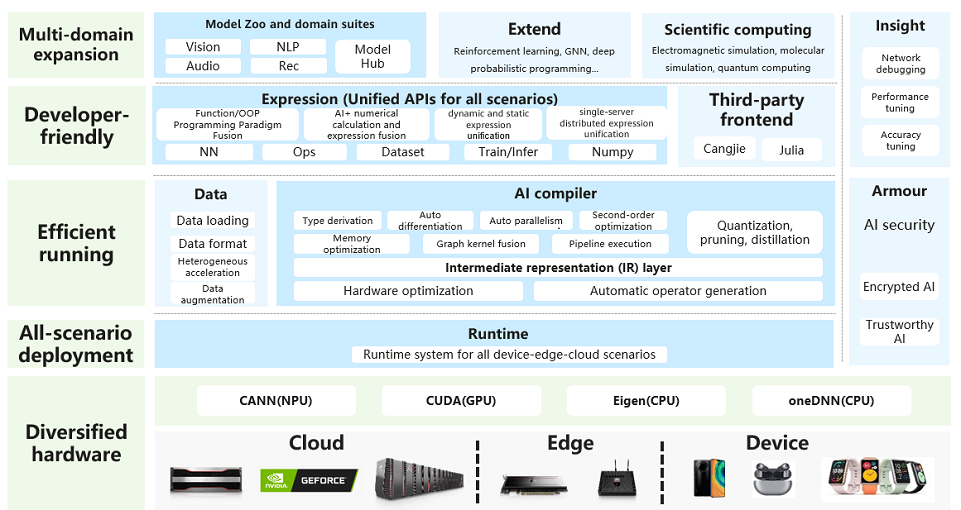
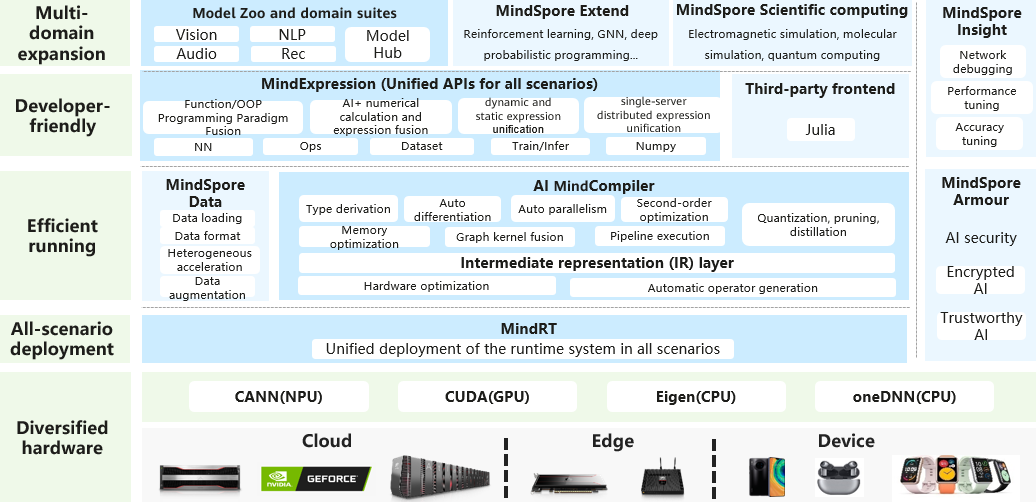
modify the tutorials file structure

diff --git a/tutorials/source_en/beginner/introduction.md b/tutorials/source_en/beginner/introduction.md
@@ -8,24 +8,24 @@ The following describes the Huawei AI full-stack solution and the position of Mi
 
 ## Introduction to MindSpore
 
-MindSpore is a deep learning framework in all scenarios, aiming to achieve easy development, efficient execution, and all-scenario coverage.
+MindSpore is a deep learning framework in all scenarios, aiming to achieve easy development, efficient execution, and unified deployment for all scenarios.
 
-Easy development features user-friendly APIs and low debugging difficulty. Efficient execution is reflected in computing, data preprocessing, and distributed training. All-scenario coverage means that the framework supports cloud, edge, and device scenarios.
+Easy development features user-friendly APIs and low debugging difficulty. Efficient execution is reflected in computing, data preprocessing, and distributed training. Unified deployment for all scenarios means that the framework supports cloud, edge, and device scenarios.
 
 The following figure shows the overall MindSpore architecture:
 
 ![MindSpore-arch](https://mindspore-website.obs.cn-north-4.myhuaweicloud.com/website-images/r2.2/tutorials/source_en/beginner/images/introduction2.png)
 
 - **ModelZoo**: provides available deep learning algorithm networks, and more developers are welcome to contribute new networks. ([ModelZoo](https://gitee.com/mindspore/models))
-- **Extend**: The MindSpore expansion package supports new domain scenarios, such as GNN, deep probabilistic programming, and reinforcement learning. More developers are expected to contribute and build the library.
-- **Science**: MindScience is a scientific computing kit for various industries based on the converged MindSpore framework. It contains the industry-leading datasets, basic network structures, high-precision pre-trained models, and pre-and post-processing tools that accelerate application development of the scientific computing.
-- **Expression**: Python-based front-end expression and programming interface that supports two fusions (function/OOP programming paradigm fusion and AI+ numerical computation expression fusion) and two unifications (dynamic expression unification and single-computer distributed expression unification).
-- **Third-party front-end**: support for third-party multilingual front-end expression, the future plans to successively provide C/C++, Huawei self-developed programming language front-end - Cangjie (currently still in the pre-research stage) and other third-party front-end docking work, and the introduction of more third-party ecology.
-- **Data**: provides functions such as efficient data processing, common dataset loading and programming interfaces, and allows users to flexibly define processing registration and pipeline parallel optimization.
-- **Compiler**: The core compiler of the layer, which implements three major functions based on the unified device-cloud MindIR, including hardware-independent optimization (type derivation, automatic differentiation, and expression simplification), hardware-related optimization (automatic parallelism, memory optimization, graph kernel fusion, and pipeline execution), and optimization related to deployment and inference (quantification and pruning).
-- **Runtime**: MindSpore runtime system, including the runtime system on the cloud host, runtime system on the device, and lightweight runtime system of the IoT platform.
-- **Insight**: MindSpore visualized debugging and tuning tool, allowing users to debug and tune the training network ([More Information](https://mindspore.cn/mindinsight/docs/en/r2.2/index.html)).
-- **Armour**: For enterprise-level applications, provides enhanced functions related to security and privacy protection, such as anti-robustness, model security testing, differential privacy training, privacy leakage risk assessment, and data drift detection ([More Information](https://mindspore.cn/mindarmour/docs/en/master/index.html)).
+- **MindSpore Extend**: The MindSpore expansion package supports new domain scenarios, such as GNN, deep probabilistic programming, and reinforcement learning. More developers are expected to contribute and build the library.
+- **MindSpore Science**: MindScience is a scientific computing kit for various industries based on the converged MindSpore framework. It contains the industry-leading datasets, basic network structures, high-precision pre-trained models, and pre-and post-processing tools that accelerate application development of the scientific computing.
+- **MindExpression**: Python-based front-end expression and programming interface that supports two fusions (function/OOP programming paradigm fusion and AI+ numerical computation expression fusion) and two unifications (dynamic expression unification and single-computer distributed expression unification).
+- **Third-party front-end**: support for third-party multilingual front-end expression, the future plans to successively provide C/C++ and other third-party front-end docking work, and the introduction of more third-party ecology.
+- **MindSpore Data**: provides functions such as efficient data processing, common dataset loading and programming interfaces, and allows users to flexibly define processing registration and pipeline parallel optimization.
+- **MindCompiler**: The core compiler of the layer, which implements three major functions based on the unified device-cloud MindIR, including hardware-independent optimization (type derivation, automatic differentiation, and expression simplification), hardware-related optimization (automatic parallelism, memory optimization, graph kernel fusion, and pipeline execution), and optimization related to deployment and inference (quantification and pruning).
+- **MindRT**: MindSpore runtime system, including the runtime system on the cloud host, runtime system on the device, and lightweight runtime system of the IoT platform.
+- **MindSpore Insight**: MindSpore visualized debugging and tuning tool, allowing users to debug and tune the training network ([More Information](https://mindspore.cn/mindinsight/docs/en/r2.2/index.html)).
+- **MindSpore Armour**: For enterprise-level applications, provides enhanced functions related to security and privacy protection, such as anti-robustness, model security testing, differential privacy training, privacy leakage risk assessment, and data drift detection ([More Information](https://mindspore.cn/mindarmour/docs/en/master/index.html)).
 
 ### Execution Process
 
@@ -47,7 +47,7 @@ After the neural network model is trained, you can export the model or load the 
 
 ### Design Philosophy
 
-- Supporting full-scenario collaboration
+- Supporting unified deployment for all scenarios
 
     MindSpore is derived from industry-wide best practices. It provides unified model training, inference, and export APIs for data scientists and algorithm engineers. It supports flexible deployment in different scenarios such as the device, edge, and cloud, and promotes the prosperity of domains such as deep learning and scientific computing.
 
@@ -62,11 +62,11 @@ After the neural network model is trained, you can export the model or load the 
 
     For example, set `set_context(mode=PYNATIVE_MODE)` to switch to the dynamic graph mode, or set `set_context(mode=GRAPH_MODE)` to switch to the static graph mode.
 
-- Using functional differentiable programming architecture and allowing users to focus on the mathematical native expression of model algorithms
+- Using AI and scientific computing fusion programming and allowing users to focus on the mathematical native expression of model algorithms
 
-    Neural network models are usually trained based on gradient descent algorithms, but the manual derivation process is complicated and the results are prone to errors. The Automatic Differentiation mechanism based on Source Code Transformation (SCT) of MindSpore adopts a functional differentiable programming architecture, and provides a Python programming interface at the interface layer, including the expression of control flow. Users can focus on the mathematically native expression of the model algorithm without manual derivation.
+    On the basis of support for AI model training and inference programming, it extends the support for flexible automatic differential programming capability, supports differential derivation in the case of function and control flow expression, and supports various kinds of advanced differential capabilities, such as forward differentiation and higher-order differentiation, based on which users can realize the programming expression of differential functions commonly used in scientific computation, so as to support the fusion programming and development of AI and scientific computation.
 
-- Unifying the coding method of single device and distributed training
+- Distributed training native
 
     As a scale of neural network models and datasets continuously increases, parallel distributed training becomes a common practice of neural network training. However, the strategy selection and compilation of parallel distributed training are very complex, which severely restricts training efficiency of a deep learning model and hinders development of deep learning. MindSpore unifies the coding methods of single device and distributed training. Developers do not need to write complex distributed strategies. They can implement distributed training by adding a small amount of code to the single device code, which improves the efficiency of neural network training, greatly reduces the threshold of AI development, and enables users to quickly implement model ideas.
 
@@ -96,14 +96,16 @@ Ascend computing is a full-stack AI computing infrastructure and application bas
 
 Huawei Atlas AI computing solution is based on Ascend series AI processors and uses various product forms such as modules, cards, edge stations, servers, and clusters to build an all-scenario AI infrastructure solution oriented to device, edge, and cloud. It covers data center and intelligent edge solutions, as well as the entire inference and training processes in the deep learning field.
 
+Th Ascend AI full stack is shown below:
+
+![Ascend full stack](https://mindspore-website.obs.cn-north-4.myhuaweicloud.com/website-images/r2.2/tutorials/source_en/beginner/images/introduction1.png)
+
 The functions of each module are described as follows:
 
-- **Atlas series**: provides AI training, inference cards, and training servers ([learn more](https://www.hiascend.com/en/ecosystem/industry)).
-- **CANN at heterogeneous computing architecture**: a driver layer that enables chips ([learn more](https://www.hiascend.com/en/software/cann)).
-- **MindSpore**: all-scenario AI framework ([learn more](https://www.mindspore.cn/en)).
-- **MindX SDK (Ascend SDK)**: provides the application solution ([learn more](https://www.hiascend.com/en/software/mindx-sdk)).
-- **ModelArts**: HUAWEI CLOUD AI development platform ([learn more](https://www.huaweicloud.com/product/modelarts.html)).
-- **MindStudio**: E2E development toolchain that provides one-stop IDE for AI development ([learn more](https://www.hiascend.com/en/software/mindstudio)).
+- **Ascend Application Enablement**: AI platform or service capabilities provided by Huawei major product lines based on MindSpore.
+- **MindSpore**: Support for device-edge-cloud-independent and collaborative unified training and inference frameworks.
+- **CANN**: A driver layer that enables Ascend chips ([learn more](https://www.hiascend.com/en/software/cann)).
+- **Compute Resources**: Ascend serialized IP, chips and servers.
 
 For details, click [Huawei Ascend official website](https://e.huawei.com/en/products/servers/ascend).
 

diff --git a/docs/mindspore/source_en/design/overview.md b/docs/mindspore/source_en/design/overview.md
@@ -28,7 +28,7 @@ The overall MindSpore architecture is divided into four layers:
 
 ## Design Concept
 
-MindSpore provides users with programming paradigms for languages such as Python. Based on source code conversion, users can use native Python control syntax and other advanced APIs such as Tuple, List, and Lambda expressions.
+MindSpore is a full-scenario deep learning framework that aims to achieve three goals: easy development, efficient execution, and unified deployment for all scenarios. Ease of development is characterized by a friendly API and low debugging difficulty; efficient execution includes computational efficiency, data preprocessing efficiency, and distributed training efficiency; and full-scenario means that the framework supports cloud, edge, and device-side scenarios at the same time.
 
 ### Programming Paradigm
 
@@ -42,12 +42,6 @@ MindSpore implements [functional differential programming](https://www.mindspore
 
 Also based on the functional programming paradigm, MindSpore provides a wealth of higher-order functions such as vmap, shard, and other built-in higher-order functions. Like the differential derivative function grad, it allows the user to conveniently construct a function or an object that can be used as an argument to a higher-order function. Higher-order functions are internally compiled and optimized to generate optimized versions of user-specific functions, implementing features such as vectorized transformations, distributed parallel slicing, and other functions.
 
-### [Device-edge-cloud Full Scenarios](https://www.mindspore.cn/docs/en/r2.2/design/all_scenarios.html)
-
-MindSpore is an all-in-one AI framework that supports both training and inference. MindSpore also supports CPU, GPU, NPU and other chips, and provides a unified programming interface on different chips and generates offline models that can be loaded and executed on multiple hardware.
-
-MindSpore provides a variety of versions according to the actual execution environment and business requirements, supports deployment and execution on embedded devices such as cloud, server, and cell phones, and ultra-lightweight devices such as headsets.
-
 ### [Unified Programming Experience with Dynamic Graph and Static Graph](https://www.mindspore.cn/docs/en/r2.2/design/dynamic_graph_and_static_graph.html)
 
 Traditional AI frameworks have two main forms of programming execution, static graph mode and dynamic graph mode.
@@ -58,13 +52,9 @@ The static graph mode can effectively perceive the relationship situation betwee
 
 Dynamic graph mode can effectively solve the more complex problems of programming static graphs. However, because the program is executed in the order in which the code is written, no integral-graph compilation optimization is done, resulting in less room for relative performance optimization, especially for proprietary hardware such as DSA, which is more difficult to enable.
 
-MindSpore builds the graph structure of neural networks based on the native Python, which can be more easily and flexibly expressed than the traditional static graph model. It is also better compatible with programming interfaces for dynamic and static graphs, such as for control flow, and dynamic graphs can be programmed directly based on Python control flow keyword. Static graphs require programming based on special control flow operators or require user programming to instruct the control flow execution branches, which results in large programming differences between dynamic and static graphs.
+MindSpore builds the graph structure of neural networks based on the native Python, which can be more easily and flexibly expressed than the traditional static graph model. MindSpore's innovative build source conversion capability extracts ASTs for computational graph construction based on python statements, so it can support users to construct computational graphs using python's native control syntax (conditional statements, loops, etc.) and some other advanced APIs such as tuples, lists, and Lambda expressions, and perform automatic differentiation of computational graphs. As a result, there is also better compatibility between the programming interfaces for dynamic and static graphs, e.g., consistent control-flow oriented writing.
 
 The native Python expression enables the execution of static graph mode directly based on the Python control flow keyword, making the programming of dynamic and static graphs more uniform. At the same time, users can flexibly control the dynamic and static graph mode of Python code fragments based on interfaces of MindSpore. That is, it is possible to execute the local functions of the program in static graph mode while the other functions are executed in dynamic graph mode. Thus, when interleaved with common Python libraries and custom Python functions, users have the flexibility to specify function fragments for static graph optimization acceleration without sacrificing the ease of programming for interleaved execution.
-
-### [Third-Party Hardware Access](https://www.mindspore.cn/docs/en/r2.2/design/pluggable_device.html)
-
-MindSpore builds an open AI architecture based on the unified MindIR, which supports plug-in, standardization and low-cost access of third-party chips, and can access GPU series chips as well as various DSA chips. MindSpore provides two kinds of chip access methods, Kernel mode access and Graph mode access, and chip makers can choose the access method according to their own characteristics.
 
 ### [Distributed Parallism](https://www.mindspore.cn/docs/en/r2.2/design/distributed_training_design.html)
 
@@ -110,7 +100,17 @@ Data sink means that the data is transferred directly to the Device through the 
 
 The algorithm optimization includes second-order optimization, boost optimization, etc.
 
-### [Overall Security and Trustworthiness Design](https://www.mindspore.cn/mindarmour/docs/en/master/design.html)
+### [Unified Deployment for All Scenarios](https://www.mindspore.cn/docs/en/r2.2/design/all_scenarios.html)
+
+MindSpore is an all-in-one AI framework that supports both training and inference. MindSpore also supports CPU, GPU, NPU and other chips, and provides a unified programming interface on different chips and generates offline models that can be loaded and executed on multiple hardware.
+
+MindSpore provides a variety of versions according to the actual execution environment and business requirements, supports deployment and execution on embedded devices such as cloud, server, and cell phones, and ultra-lightweight devices such as headsets.
+
+### [Third-Party Hardware Access](https://www.mindspore.cn/docs/en/r2.2/design/pluggable_device.html)
+
+MindSpore builds an open AI architecture based on the unified MindIR, which supports plug-in, standardization and low-cost access of third-party chips, and can access GPU series chips as well as various DSA chips. MindSpore provides two kinds of chip access methods, Kernel mode access and Graph mode access, and chip makers can choose the access method according to their own characteristics.
+
+### [Overall Security and Trustworthiness Design](https://www.mindspore.cn/mindarmour/docs/en/r2.2/design.html)
 
 MindSpore takes into account the rich need for security and trustworthiness when deployed by enterprises. In the continuous evolution and refinement of various technologies geared towards secure and trustworthy directions, with built-in frameworks:
 

diff --git a/docs/mindspore/source_en/faq/inference.md b/docs/mindspore/source_en/faq/inference.md
@@ -4,7 +4,7 @@
 
 <font size=3>**Q: In the previous version, 310 inference is performed based on the MindSpore installation package. However, the MindSpore release package of the new version does not support Ascend 310 inference. How do I use Ascend 310 for inference? (Changes in the MindSpore Ascend 310 Inference Release Package)**</font>
 
-A: The MindSpore inference function is provided by MindSpore Lite, a core component of MindSpore. Since version 2.0, the Ascend 310 inference package is released by MindSpore Lite and provides continuous maintenance and evolution of related functions. The corresponding interfaces in the MindSpore main release package are not maintained or evolved. Since version 2.2, the MindSpore main release package does not provide the inference interface enabling for the 310. If you need to use the inference interface, install the MindSpore Lite release package or download the MindSpore version earlier than 2.0. For details about how to install and use MindSpore Lite, see <https://www.mindspore.cn/lite>.
+A: The MindSpore inference function is provided by MindSpore Lite, a core component of MindSpore. Since version 2.0, the Ascend 310 inference package is released by MindSpore Lite and provides continuous maintenance and evolution of related functions. The corresponding interfaces in the MindSpore main release package are not maintained or evolved. Since version 2.2, the MindSpore main release package does not provide the inference interface enabling for the 310. If you need to use the inference interface, install the MindSpore Lite release package or download the MindSpore version earlier than 2.0. For details about how to install and use MindSpore Lite, see <https://www.mindspore.cn/lite/en>.
 
 HUAWEI Ascend 310 (Ascend) is an energy-efficient and highly integrated AI processor for edge scenarios. It supports inference on MindIR models. In the earlier version, MindSpore provides two methods for enabling inference on the Ascend 310 hardware:
 

diff --git a/docs/mindquantum/docs/source_en/initial_experience_of_quantum_neural_network.md b/docs/mindquantum/docs/source_en/initial_experience_of_quantum_neural_network.md
@@ -245,7 +245,7 @@ Simulator.get_expectation_with_grad(ham,
 This function is suitable for computing the following models: $E=\left<0\right|U^\dagger_l(\theta) H U_r(\theta)\left|0\right>$ Where `circ_right` is `Ur`, `circ_left` is `Ul`, when not provided, the default is the same circuit as `circ_right`,
 `parallel_worker` specifies the number of parallels. When the classical data to be encoded is a batch, setting this parameter reasonably can improve the calculation efficiency.
 
-(2) MindSpore is a full-scene deep learning framework, aiming to achieve three goals of easy development, efficient execution, and full-scene coverage, provides tensor-differentiable programmability that supports heterogeneous acceleration, supports cloud, server, edge and end multiple hardware platforms.
+(2) MindSpore is a full-scene deep learning framework, aiming to achieve three goals of easy development, efficient execution, and unified deployment for all scenarios, provides tensor-differentiable programmability that supports heterogeneous acceleration, supports cloud, server, edge and end multiple hardware platforms.
 
 ## Building a quantum neural network
 

diff --git a/docs/mindquantum/docs/source_en/classification_of_iris_by_qnn.md b/docs/mindquantum/docs/source_en/classification_of_iris_by_qnn.md
@@ -334,7 +334,7 @@ As can be seen from the above printing, we have successfully built a quantum mac
 
 Note:
 
-MindSpore is an all-scenario deep learning framework that aims to achieve the three goals of easy development, efficient execution, and full-scenario coverage. It provides tensor differentiable programming capabilities that support heterogeneous acceleration, and also supports cloud, server, edge and end multiple hardware platforms.
+MindSpore is an all-scenario deep learning framework that aims to achieve the three goals of easy development, efficient execution, and unified deployment for all scenarios. It provides tensor differentiable programming capabilities that support heterogeneous acceleration, and also supports cloud, server, edge and end multiple hardware platforms.
 
 ## Training
 
